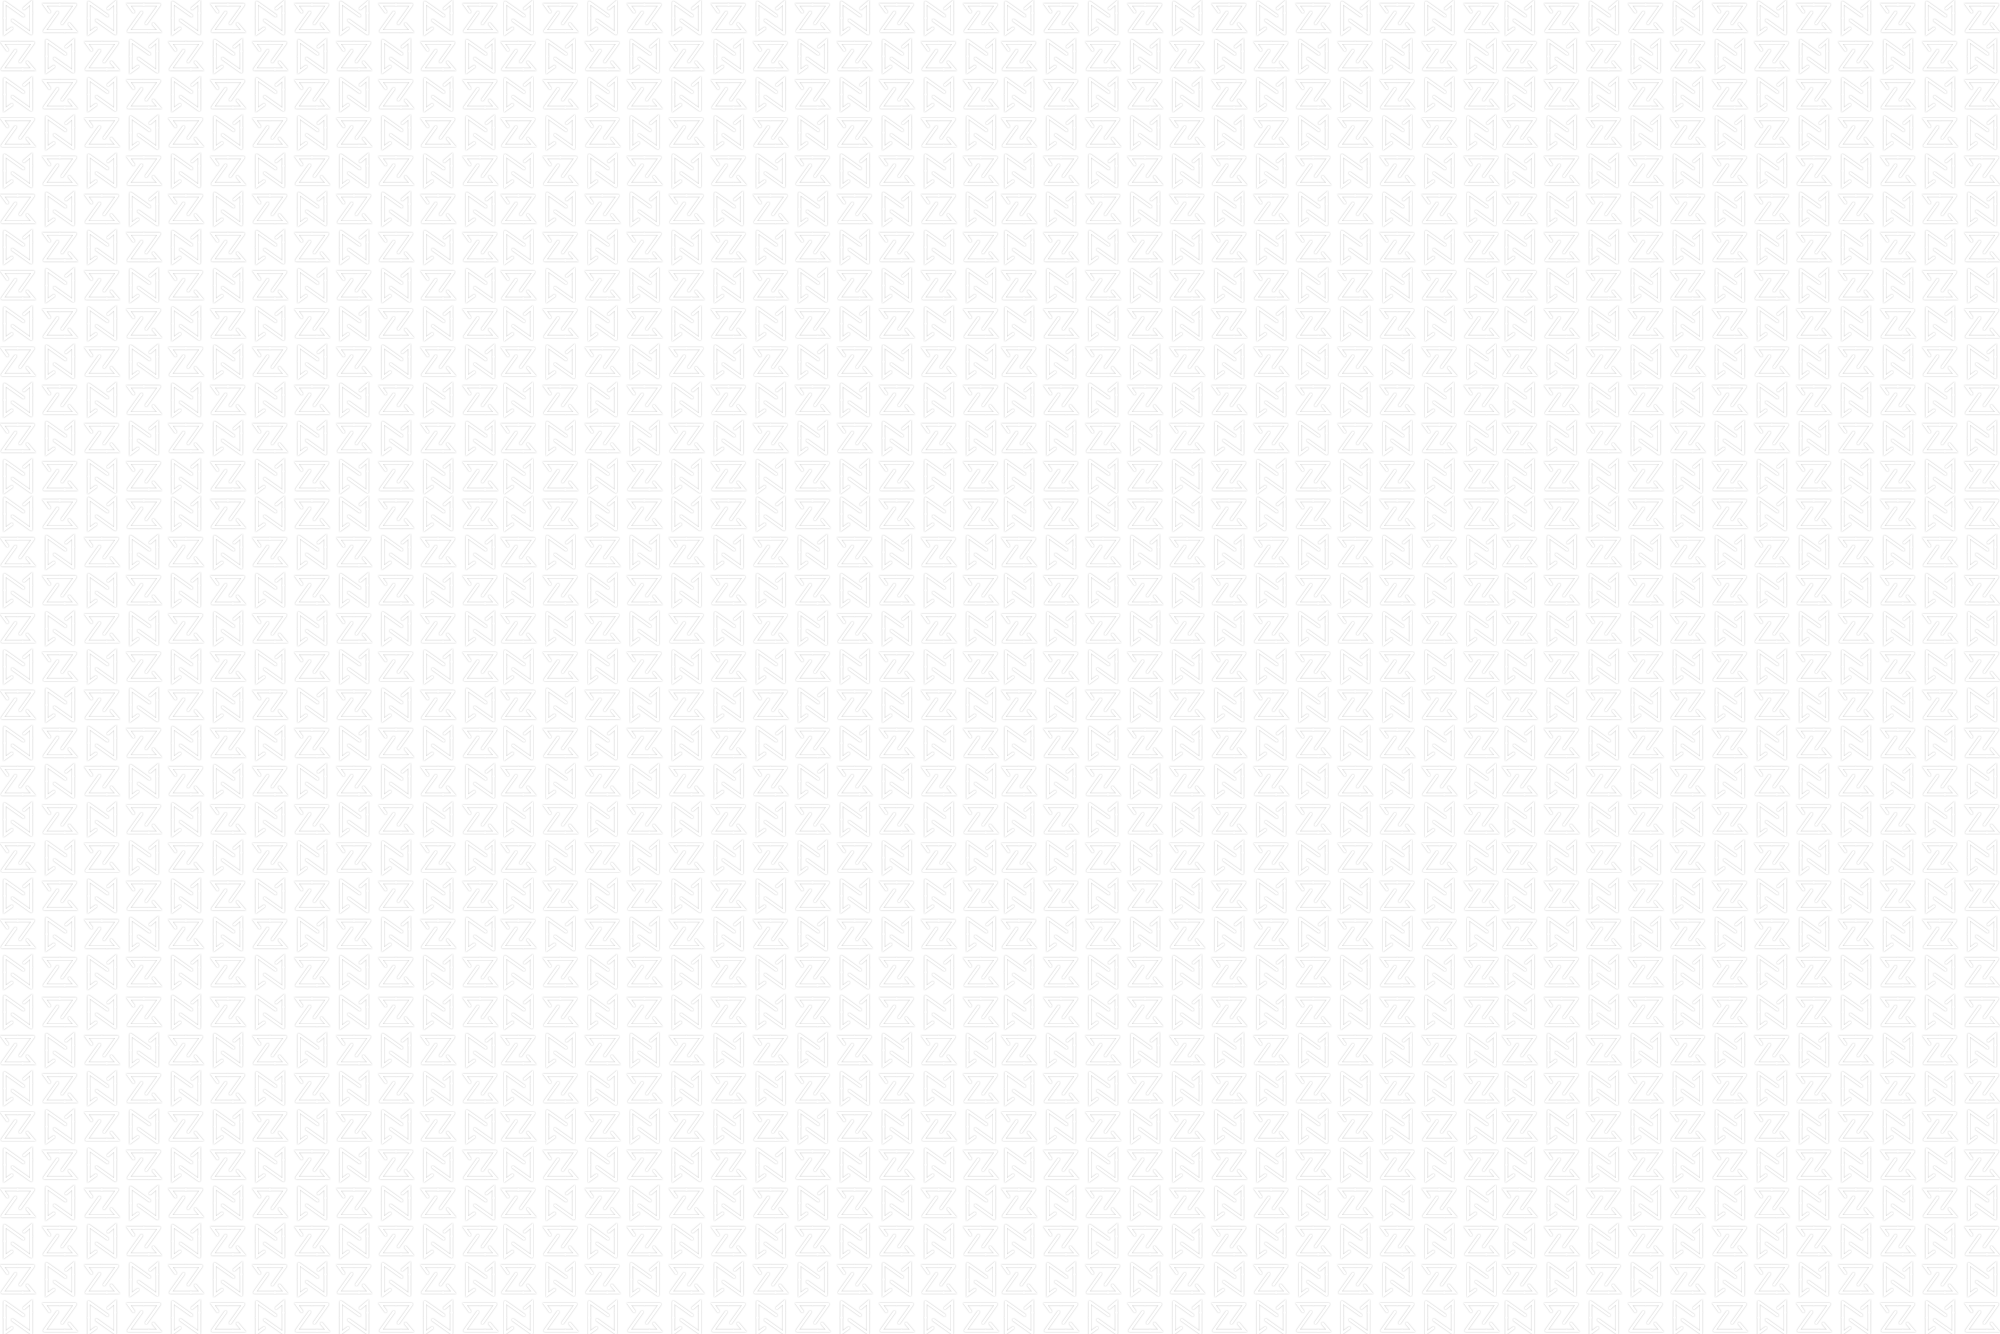
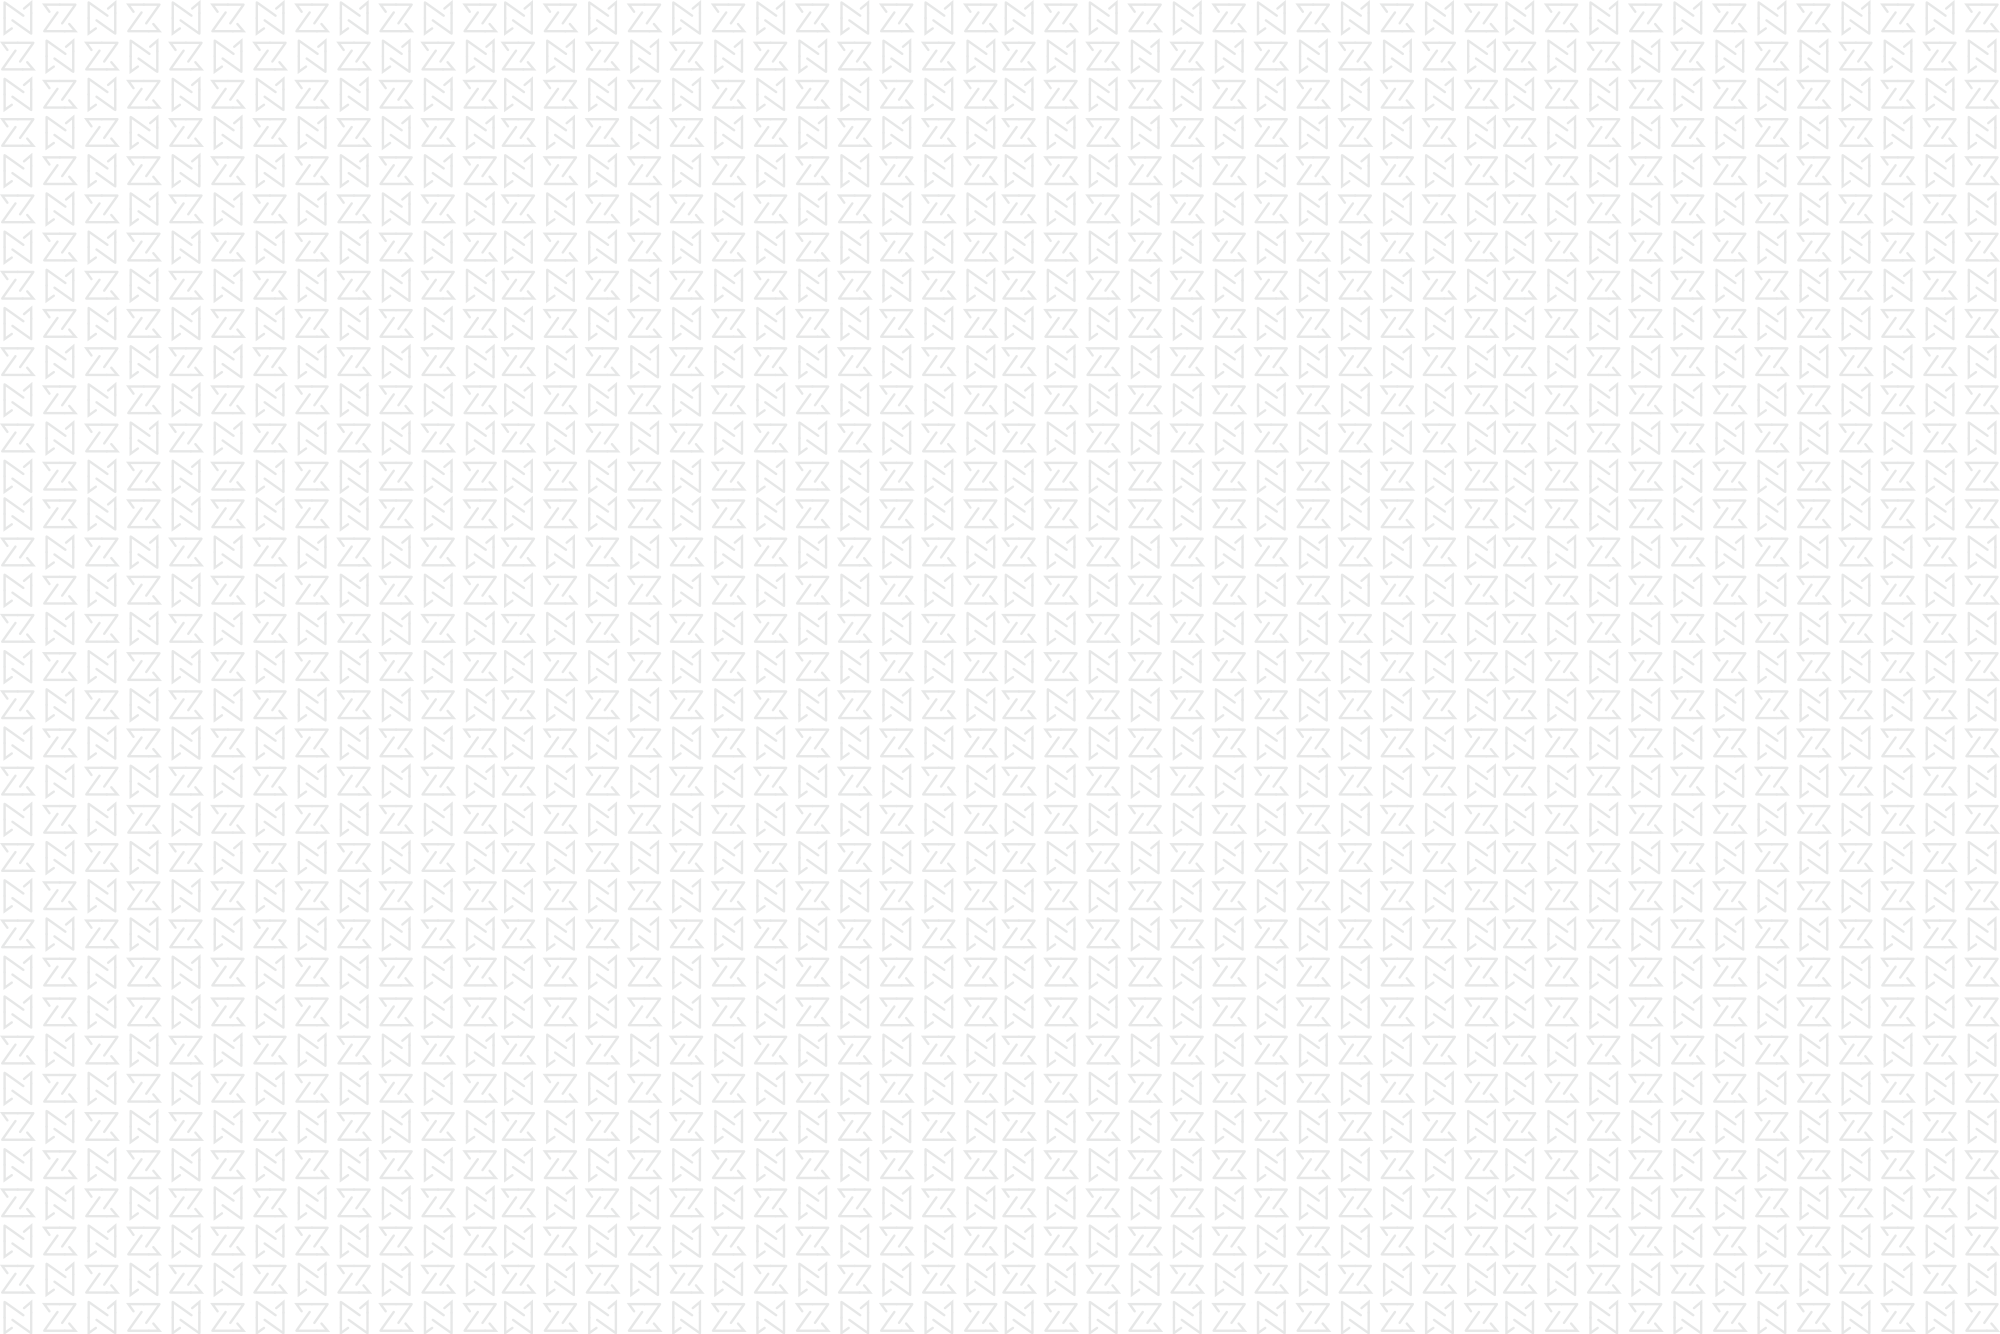
Added link to Google Play and bg image

Changed region(s): [[0.0, 0.0, 1.0, 1.0], [0.589, 0.8298, 0.651, 0.8606]]

diff --git a/index.html b/index.html
@@ -96,7 +96,7 @@
 								<div class="hero_content">
 									<h1 class="text-white">Network the right way</h1>
 									<p class="text-white">Available for iOS & Android</p>
-									<a href="#" class="appsy_btn">Download Now</a>
+									<a href="#download" class="appsy_btn">Download Now</a>
 								</div>
 							</div>
 						</div>
@@ -104,7 +104,7 @@
 				</div>
 				<div class="col-md-4 col-md-offset-1 col-sm-5 hidden-xs">
 					<div class="hero_content_wrap">
-						<img src="img/hand-moc.png" alt="App Mockup" class="hero_moc">
+						<!-- <img src="img/hand-moc.png" alt="App Mockup" class="hero_moc"> -->
 					</div>
 				</div>
 			</div>
@@ -379,10 +379,10 @@
 	       				<h2 class="text-white">Download the<br> Networkd app today!</h2>
 	       				<div class="btn_group">
 							<a href="#" class="dl_btn">
-								<i><img src="img/dl-btn-appstore.svg" height="50" alt="Expand"></img></i>
+								<i><img src="img/dl-btn-appstore.svg" height="50" alt="App Store logo"></img></i>
 							</a>
-							<a href="#" class="dl_btn">
-								<i><img src="img/dl-btn-googleplay.svg" height="50" alt="Expand"></img></i>
+							<a href="https://play.google.com/store/apps/details?id=io.networkd&hl=en" class="dl_btn" target="_blank">
+								<i><img src="img/dl-btn-googleplay.svg" height="50" alt="Google Play logo"></img></i>
 							</a>
 						</div>
 	       			</div>
